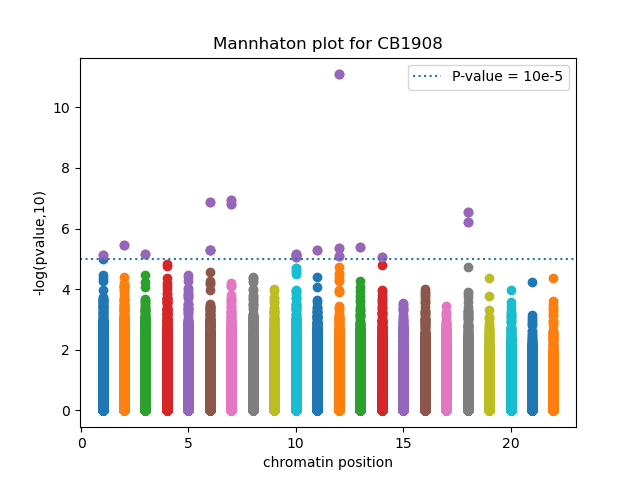
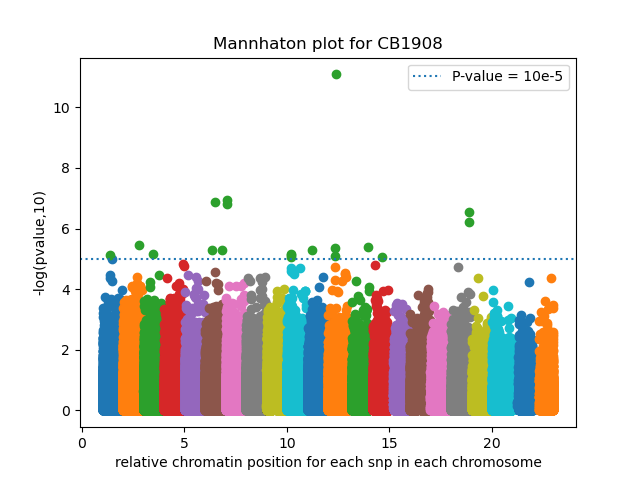
modified python script and plots according to the feedback, where I added the position infornmation

diff --git a/week4-homework/Assignment5_revised.py b/week4-homework/Assignment5_revised.py
@@ -1,0 +1,128 @@
+
+import matplotlib.pyplot as plt
+import numpy as np
+import math
+#generate information from the quantitative association testing results
+snp1 = np.genfromtxt("GS451_gwas_results.assoc.linear", dtype = None, encoding = None,
+	                             names = True)
+snp2 = np.genfromtxt("CB1908_gwas_results.assoc.linear", dtype = None, encoding = None,
+	                             names = True)
+#set up blank lists to store different sets of pvalue and their corresponding chromatin, dividing them into two groups by their pvalues
+gchrom_small = []
+gchrom_big = []
+gpval_small = []
+gpval_big = []
+gsnp = []
+gpos = []
+gpos_small = []
+gpos_big = []
+fig, ax = plt.subplots()
+
+#to assess whether the pvalue is less than 10e(-5)
+for i in range(len(snp1["SNP"])):
+	if snp1["TEST"][i]== "ADD":
+		if -math.log(snp1["P"][i],10) > 5:
+			gchrom_big.append(snp1["CHR"][i])
+			gpval_big.append(-math.log(snp1["P"][i],10))
+			gsnp.append(snp1["SNP"][i])
+			gpos_big.append(snp1["BP"][i])
+		else: 
+			gchrom_small.append(snp1["CHR"][i])
+			gpos_small.append(snp1["BP"][i])
+			gpval_small.append(-math.log(snp1["P"][i],10))
+
+#find out the most associated snp
+print(gsnp[gpval_big.index(max(gpval_big))])
+print(gpos_big[gpval_big.index(max(gpval_big))])
+print(gchrom_big[gpval_big.index(max(gpval_big))])
+#to plot snps that are in the same chromatin seperately, giving them different color
+#find out the biggist position for each chromosome, to make the relative position for each 
+#snp, thus I coule make the plot more evenly distributed
+gpos_max = []
+for i in range(1,23):
+	g_pos  = []
+	for j, chrom in enumerate(gchrom_small):
+		if chrom  == i:
+			g_pos.append(gpos_small[j])
+	gpos_max.append(max(g_pos))
+for i in range(1,23):
+	g_p = []
+	g_pos  = []
+	for j, chrom in enumerate(gchrom_small):
+		if chrom  == i:
+			g_p.append(gpval_small[j])
+			#relative position
+			g_pos.append(gpos_small[j]/gpos_max[i-1] + i)
+	for k, chrom in enumerate(gchrom_big):
+		if chrom  == i:
+			gpos_big[k] = gpos_big[k]/gpos_max[i-1] + i
+	ax.scatter(g_pos,g_p)
+#plot
+ax.scatter(gpos_big, gpval_big)
+ax.set_xlabel("relative chromatin position for each snp in each chromosome")
+ax.set_title("Mannhaton plot for GS451")
+ax.set_ylabel("-log(pvalue,10)")
+plt.axhline(5, linestyle = 'dotted',label = 'P-value = 10e-5')
+ax.legend()
+plt.savefig("GS451.png")
+
+#similar scripts for the CS1908 genotypes
+cchrom_small = []
+cchrom_big = []
+cpval_small = []
+cpval_big = []
+csnp = []
+cpos = []
+cpos_small = []
+cpos_big = []
+
+fig, ax = plt.subplots()
+
+
+for i in range(len(snp2["SNP"])):
+	if snp2["TEST"][i]== "ADD":
+		if -math.log(snp2["P"][i],10) > 5:
+			cchrom_big.append(snp2["CHR"][i])
+			cpval_big.append(-math.log(snp2["P"][i],10))
+			csnp.append(snp2["SNP"][i])
+			cpos_big.append(snp2["BP"][i])
+		else: 
+			cchrom_small.append(snp2["CHR"][i])
+			cpos_small.append(snp2["BP"][i])
+			cpval_small.append(-math.log(snp2["P"][i],10))
+
+#find out the most associated snp
+print(csnp[cpval_big.index(max(cpval_big))])
+print(cpos_big[cpval_big.index(max(cpval_big))])
+print(cchrom_big[cpval_big.index(max(cpval_big))])
+cpos_max = []
+for i in range(1,23):
+	c_pos  = []
+	for j, chrom in enumerate(cchrom_small):
+		if chrom  == i:
+			c_pos.append(cpos_small[j])
+	cpos_max.append(max(c_pos))
+for i in range(1,23):
+	c_p = []
+	c_pos  = []
+	for j, chrom in enumerate(cchrom_small):
+		if chrom  == i:
+			c_p.append(cpval_small[j])
+			c_pos.append(cpos_small[j]/cpos_max[i-1] + i)
+	for k, chrom in enumerate(cchrom_big):
+		if chrom  == i:
+			cpos_big[k] = cpos_big[k]/cpos_max[i-1] + i
+	ax.scatter(c_pos,c_p)
+
+ax.scatter(cpos_big, cpval_big)
+# ax.scatter(cchrom_big,cpval_big)
+ax.set_xlabel("relative chromatin position for each snp in each chromosome")
+ax.set_ylabel("-log(pvalue,10)")
+plt.axhline(5, linestyle = 'dotted',label = 'P-value = 10e-5')
+ax.set_title("Mannhaton plot for CB1908")
+ax.legend()
+plt.savefig("CB1908.png")
+
+
+
+plt.show()
